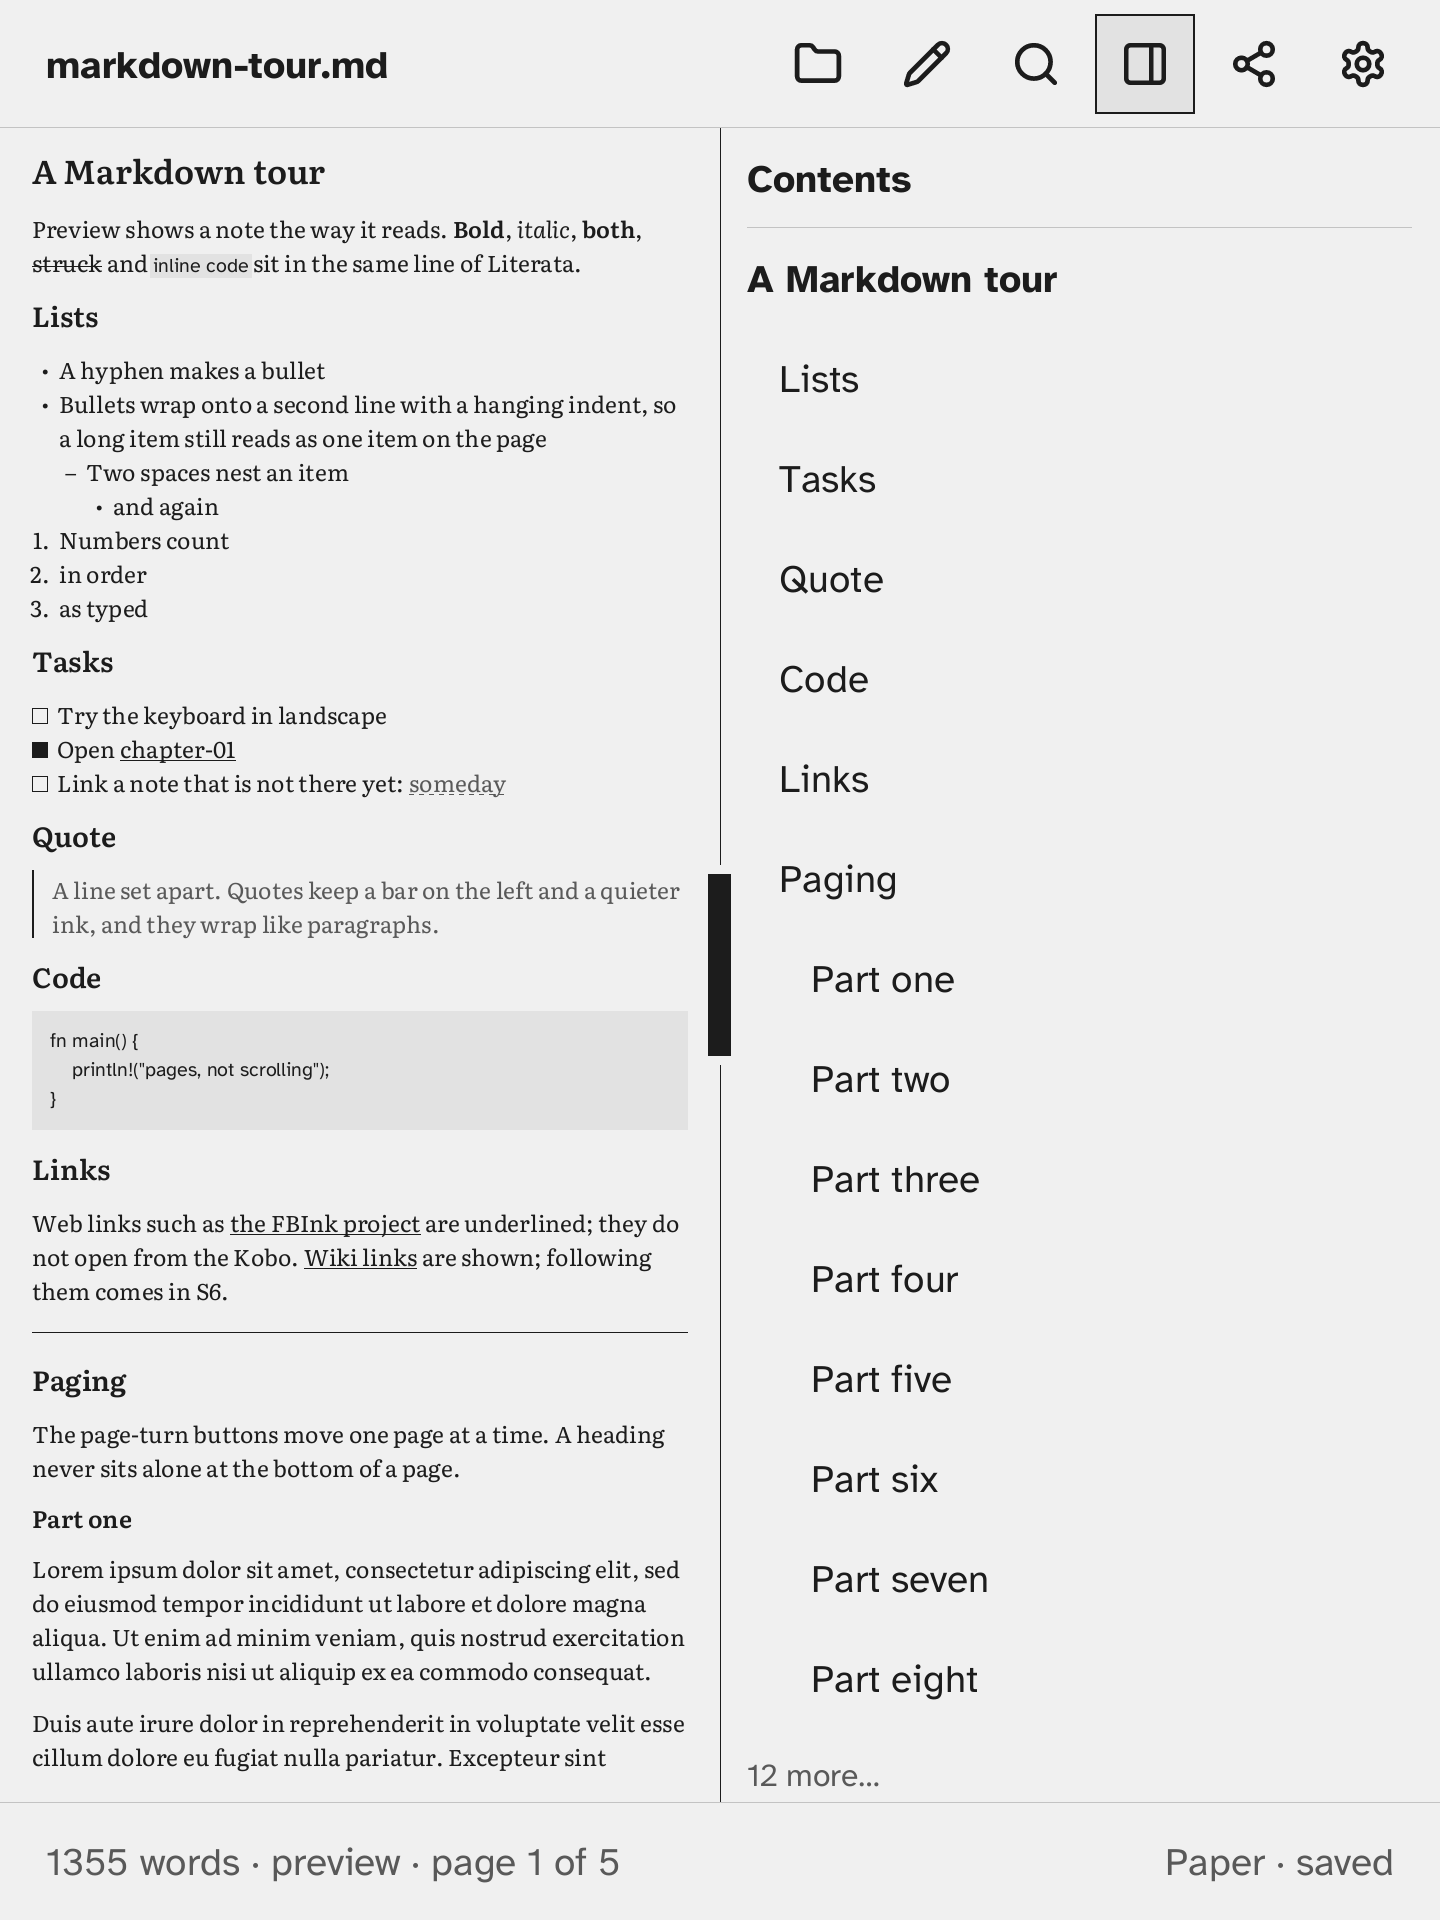
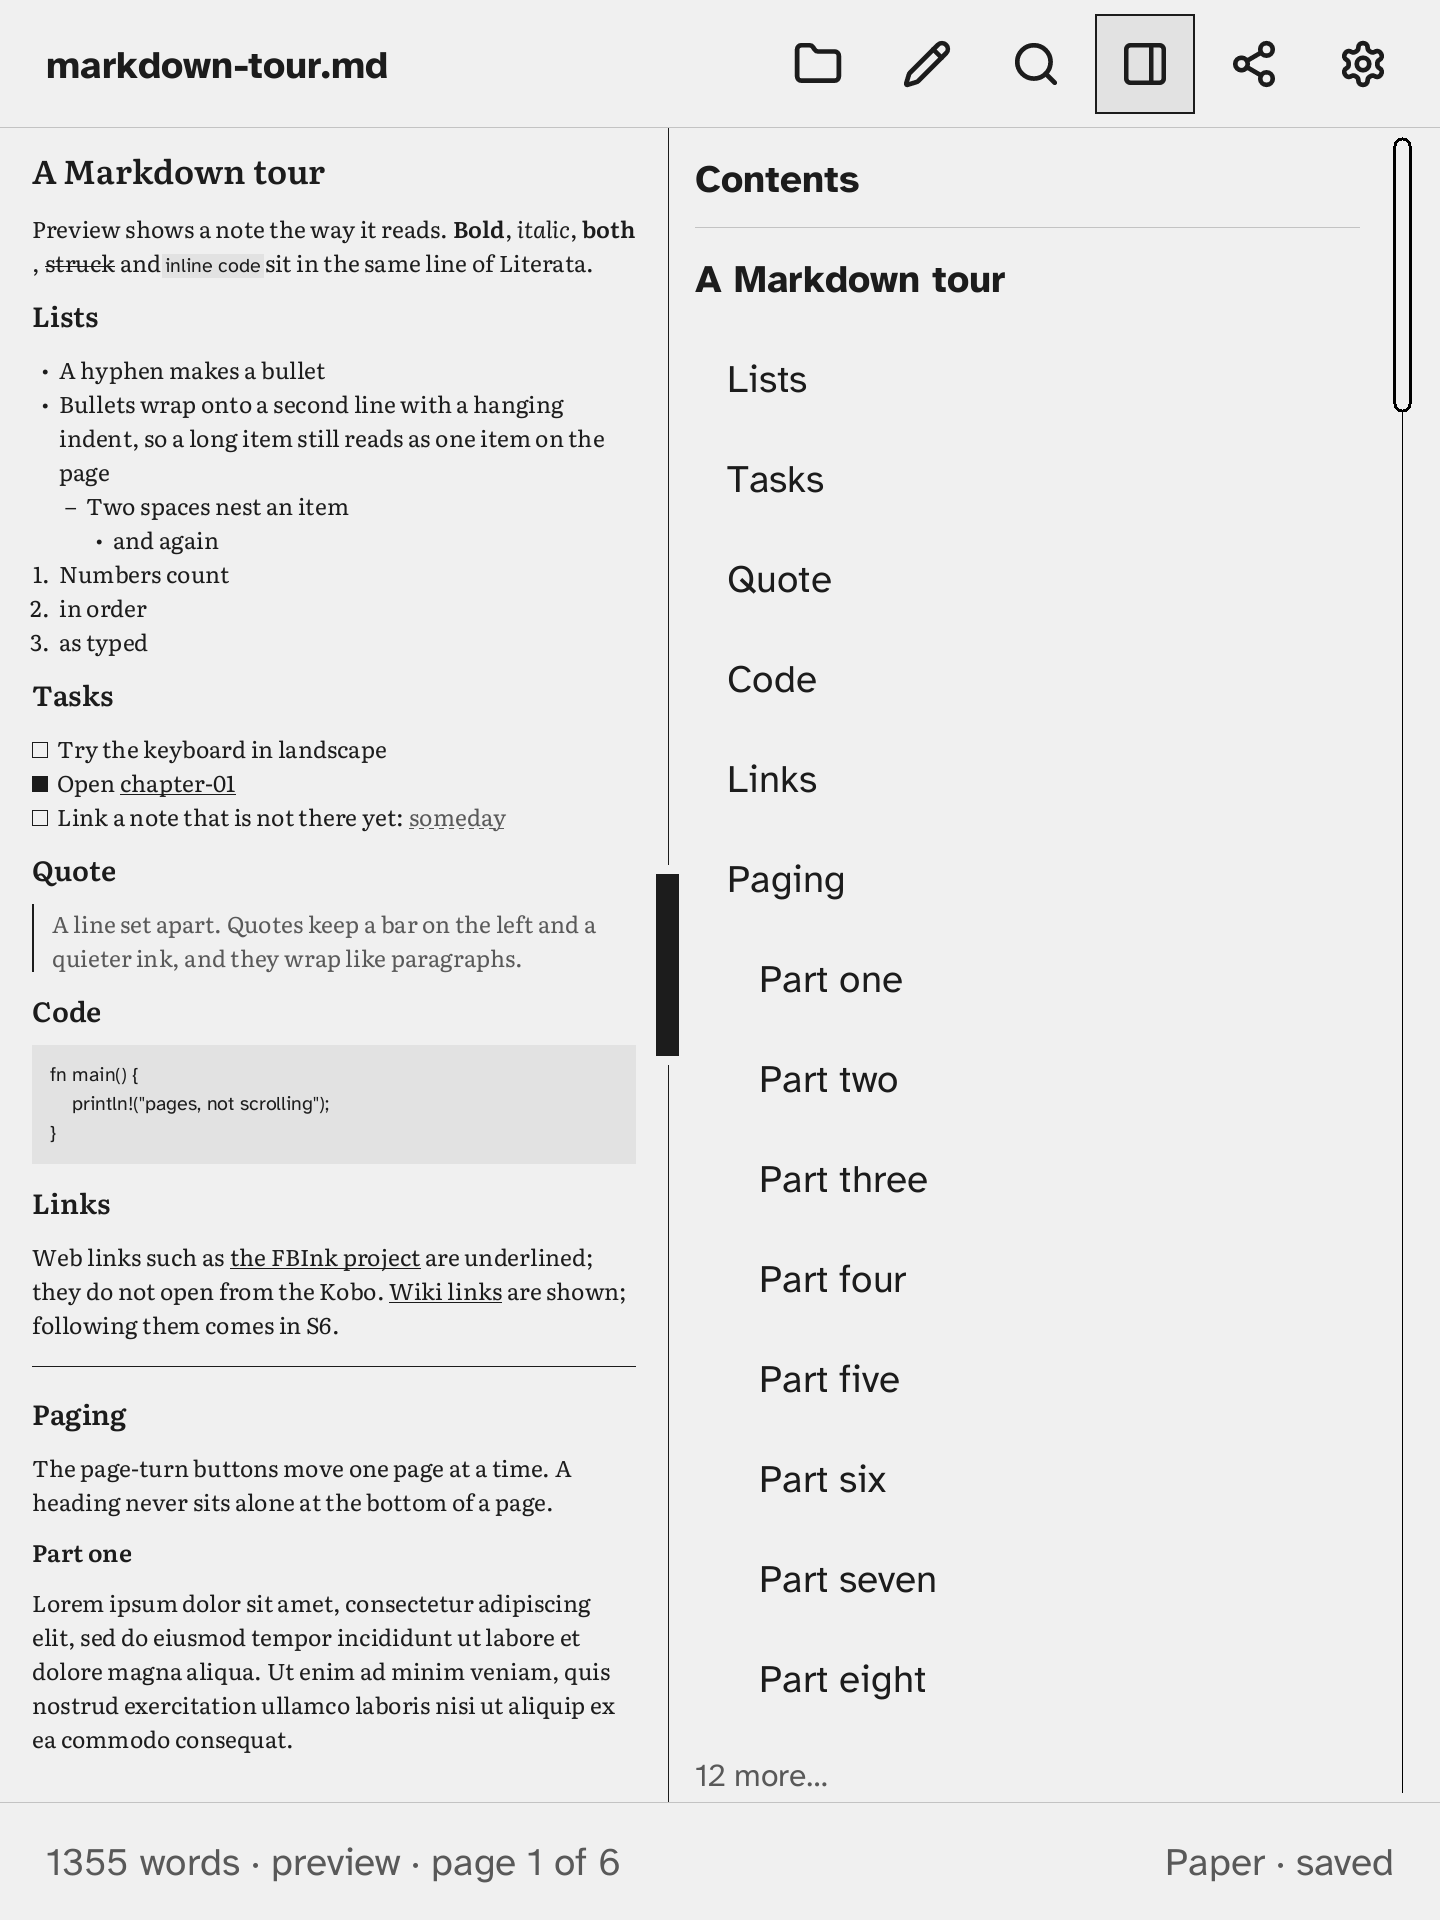
Reserve the scroll bar's strip; a right drawer ends left of it
Instead of moving the scroll bar to the drawer's edge, the bar keeps
its strip at the right of the page and a drawer on the right ends left
of it, in write mode and in preview (whose page bar the drawer also
covered). A drawer on the left never meets the bar, which is on the
right in every language.

diff --git a/crates/render/src/editor.rs b/crates/render/src/editor.rs
@@ -800,32 +800,15 @@ impl EditorScreen {
     #[must_use]
     pub fn scroll_bar_zone(&self, buffer: &Buffer, page: Rect) -> Option<(Rect, Rect)> {
         let rows = self.rows(buffer, page).len();
-        let bar = self.bar_page(page);
-        let (strip, thumb) = self.scroll_bar(bar, rows, self.visible_rows(page))?;
-        Some((crate::scrollbar::zone(self.page_s, bar, strip), thumb))
-    }
-
-    /// The part of the page the note's scroll bar runs down the right of:
-    /// the page, or with the drawer open on the right in write mode, the
-    /// page left of the drawer, so the drawer does not hide the bar (v1.16).
-    fn bar_page(&self, page: Rect) -> Rect {
-        let open = self.drawer_open.iter().any(|&o| o);
-        if !open || self.cfg.drawer != sigma_core::settings::Side::Right {
-            return page;
-        }
-        let base = Layout {
-            page,
-            ..Layout::default()
-        };
-        let d = self.drawer_rect(&base, sigma_core::settings::Side::Right);
-        Rect::new(page.x, page.y, (d.x - page.x).max(1), page.h)
+        let (strip, thumb) = self.scroll_bar(page, rows, self.visible_rows(page))?;
+        Some((crate::scrollbar::zone(self.page_s, page, strip), thumb))
     }
 
     /// Drag: the thumb's centre follows the finger at `y`.
     pub fn scroll_bar_to(&mut self, buffer: &mut Buffer, page: Rect, y: i32) {
         let rows = self.rows(buffer, page).len();
         let visible = self.visible_rows(page);
-        let Some((strip, thumb)) = self.scroll_bar(self.bar_page(page), rows, visible) else {
+        let Some((strip, thumb)) = self.scroll_bar(page, rows, visible) else {
             return;
         };
         let span = (strip.h - thumb.h).max(1) as f32;
@@ -840,7 +823,7 @@ impl EditorScreen {
     pub fn scroll_bar_step(&mut self, buffer: &mut Buffer, page: Rect, y: i32) {
         let rows = self.rows(buffer, page).len();
         let visible = self.visible_rows(page);
-        let Some((_, thumb)) = self.scroll_bar(self.bar_page(page), rows, visible) else {
+        let Some((_, thumb)) = self.scroll_bar(page, rows, visible) else {
             return;
         };
         let n = visible.saturating_sub(1).max(1);
@@ -878,7 +861,7 @@ impl EditorScreen {
     }
 
     fn draw_scroll_bar(&self, c: &mut Canvas, page: Rect, total: usize, visible: usize, t: Theme) {
-        if let Some(b) = self.scroll_bar(self.bar_page(page), total, visible) {
+        if let Some(b) = self.scroll_bar(page, total, visible) {
             // On the desk beside a locked column, else on the paper.
             crate::scrollbar::draw_bar(c, self.page_s, b, t, self.bar_bg(t));
         }
@@ -1390,7 +1373,15 @@ impl EditorScreen {
                 }
             }
         }
-        // Over the text: beside an open drawer, rows run under the bar.
+        // v1.16: a drawer on the right stops short of the bar's strip; the
+        // rows it covers would show in that strip, so it is cleared.
+        if self.drawer_open.iter().any(|&o| o)
+            && self.cfg.drawer == sigma_core::settings::Side::Right
+        {
+            let r = crate::scrollbar::reserve(self.page_s);
+            let p = l.page;
+            c.fill(Rect::new(p.x + p.w - r, p.y, r, p.h), self.bar_bg(t));
+        }
         self.draw_scroll_bar(c, l.page, rows.len(), self.visible_rows(l.page), t);
         if let Some((cands, sel)) = model.keyboard.composer.candidates() {
             self.draw_cands(c, l.page, cands, sel, t);
@@ -2818,7 +2809,7 @@ mod scroll_bar_tests {
     use super::*;
 
     #[test]
-    fn beside_an_open_drawer_on_the_right_the_bar_runs_down_its_edge() {
+    fn a_drawer_on_the_right_stops_short_of_the_bars_strip() {
         use sigma_core::settings::Side;
         let mut e = EditorScreen::new(1440, 1920);
         let b = Buffer::new("line\n".repeat(300));
@@ -2831,11 +2822,17 @@ mod scroll_bar_tests {
             ..Layout::default()
         };
         let d = e.drawer_rect(&base, Side::Right);
-        let (zone, thumb) = e.scroll_bar_zone(&b, page).unwrap();
-        assert_eq!(zone.x + zone.w, d.x, "ends where the drawer starts");
-        assert!(thumb.x + thumb.w <= d.x && thumb.x > page.x);
-        // On the left the drawer does not cover the bar: it stays put.
+        let (zone, _) = e.scroll_bar_zone(&b, page).unwrap();
+        assert_eq!(zone, alone, "the bar does not move");
+        assert_eq!(
+            d.x + d.w,
+            zone.x,
+            "the drawer ends where the bar's zone starts"
+        );
+        assert_eq!(zone.w, crate::scrollbar::reserve(e.page_s));
+        // On the left the drawer never meets the bar: flush with the page.
         e.cfg.drawer = Side::Left;
+        assert_eq!(e.drawer_rect(&base, Side::Left).x, page.x);
         assert_eq!(e.scroll_bar_zone(&b, page).unwrap().0, alone);
     }
 

diff --git a/crates/render/src/drawer.rs b/crates/render/src/drawer.rs
@@ -177,7 +177,7 @@ impl EditorScreen {
         let w = self.drawer_width_at(base, self.cfg.drawer_width);
         let x = match side {
             Side::Left => p.x,
-            Side::Right => p.x + p.w - w,
+            Side::Right => self.drawer_right(base) - w,
         };
         Rect::new(x, p.y, w, p.h)
     }
@@ -221,7 +221,7 @@ impl EditorScreen {
         let half = self.drawer_width_at(base, 0) / 2;
         match side {
             Side::Left => x < p.x + half,
-            Side::Right => x > p.x + p.w - half,
+            Side::Right => x > self.drawer_right(base) - half,
         }
     }
 
@@ -254,6 +254,14 @@ impl EditorScreen {
         c.fill(bar, t.ink);
     }
 
+    /// Where a drawer on the right ends (v1.16): left of the scroll bar's
+    /// strip, which stays the bar's (the bar is on the right in every
+    /// language; a drawer on the left never meets it).
+    fn drawer_right(&self, base: &Layout) -> i32 {
+        let p = base.page;
+        p.x + p.w - crate::scrollbar::reserve(self.page_scale())
+    }
+
     /// The Drawer width stop whose drawer is closest to one whose inner edge
     /// is at screen column `x`.
     #[must_use]
@@ -261,7 +269,7 @@ impl EditorScreen {
         let p = base.page;
         let want = match side {
             Side::Left => x - p.x,
-            Side::Right => p.x + p.w - x,
+            Side::Right => self.drawer_right(base) - x,
         };
         (0..sigma_core::settings::DRAWER_WIDTH_STOPS)
             .min_by_key(|&s| (self.drawer_width_at(base, s) - want).abs())

diff --git a/app/tests/drawer_menu.rs b/app/tests/drawer_menu.rs
@@ -207,18 +207,21 @@ fn in_preview_closing_from_the_grip_widens_the_page_and_the_tab_narrows_it_again
 }
 
 #[test]
-fn the_scroll_bar_stays_in_view_and_works_beside_the_open_drawer() {
+fn the_scroll_bar_keeps_its_strip_beside_the_open_drawer() {
     let mut r = Rig::new("bar");
     r.tap_on("Panels");
     r.tap_on("Contents");
     r.tap_on("Panels");
     let page = r.app.page_rect();
     let grip = r.at("DrawerHandle");
-    let edge = page.x + page.w - r.app.drawer_width_px();
-    // Just left of the drawer, well below the grip: the bar's lower half.
-    let (x, y) = (edge - 10, (grip.1 + page.y + page.h) / 2 + 100);
+    // At the screen edge, right of the drawer, below the thumb.
+    let (x, y) = (page.x + page.w - 10, (grip.1 + page.y + page.h) / 2 + 100);
     assert_eq!(r.app.screen.scroll, 0);
     r.send(Event::Tap { x, y });
     assert!(r.app.screen.scroll > 0, "a tap below the thumb pages down");
     assert!(r.app.drawer_visible(), "the drawer stays open");
+    assert!(
+        page.x + page.w - r.app.drawer_width_px() > grip.0,
+        "the drawer ends short of the screen edge"
+    );
 }

diff --git a/crates/render/src/scrollbar.rs b/crates/render/src/scrollbar.rs
@@ -93,6 +93,13 @@ pub fn bar(
     Some((strip, thumb(strip, total, visible, at, m.min_thumb)))
 }
 
+/// The width the bar's touch zone takes at the right of a page (v1.16): a
+/// drawer on the right stays left of it, so it never covers the bar.
+#[must_use]
+pub fn reserve(s: crate::theme::Scale) -> i32 {
+    Metrics::new(s).clearance() + s.px(4.0)
+}
+
 /// Where a finger grabs a bar: the strip widened to a touch target, out to
 /// the page's right edge, the whole height of `page`. Shared by every screen
 /// that lets the bar be dragged or tapped.

diff --git a/CHANGELOG.md b/CHANGELOG.md
@@ -4,7 +4,7 @@ All notable changes to Σscribe. Versions are tagged after they pass on the Kobo
 
 ## Unreleased
 
-- **Close the drawer from its grip, reopen it from the edge.** A double tap on the drawer's grip (or a double click with a mouse or touchpad), or dragging the grip to the screen edge, closes the whole drawer. A tab stays at the screen edge on the drawer's side; tap it to bring back the same panes (and the scratch focus), or drag it in to reopen at the width where the finger lifts. Ticking a pane in the drawer menu forgets what the grip closed. The tab sits over that bit of the scroll bar; the rest of the bar works as before. What the grip closed is not kept across a restart. The note's scroll bar no longer disappears under a drawer open on the right: it runs down the drawer's edge (drawn over the text) and works there; the grip keeps its stretch of it. Emulator control `DrawerTab`. Tests in `app/tests/drawer_handle.rs`, `app/tests/drawer_menu.rs`, `app/tests/pointer.rs`.
+- **Close the drawer from its grip, reopen it from the edge.** A double tap on the drawer's grip (or a double click with a mouse or touchpad), or dragging the grip to the screen edge, closes the whole drawer. A tab stays at the screen edge on the drawer's side; tap it to bring back the same panes (and the scratch focus), or drag it in to reopen at the width where the finger lifts. Ticking a pane in the drawer menu forgets what the grip closed. The tab sits over that bit of the scroll bar; the rest of the bar works as before. What the grip closed is not kept across a restart. The scroll bar keeps its strip at the right of the page: a drawer on the right now ends left of it instead of covering it, in write mode and in preview (a drawer on the left never met it; the bar is on the right in every language). Emulator control `DrawerTab`. Tests in `app/tests/drawer_handle.rs`, `app/tests/drawer_menu.rs`, `app/tests/pointer.rs`.
 
 - **One drawer button instead of three icons.** The title bar has a single drawer button (a panel on the drawer's side) where the Contents, To-dos and Scratch icons were. A tap opens a small menu under it with a checkbox, icon and name for each pane; tap rows to show or hide panes, the menu stays open for several. The button, Escape or a tap anywhere else closes it, and that tap does nothing else (no typing, no caret move). The button is shaded while a pane or the menu is open. Only panes whose plugin is on are listed; with none, the button goes. Works in write mode and preview. No new strings (the pane names were translated). New `sigma_render::drawer_menu` (`MenuHit`, `drawer_menu_rows`, `draw_drawer_menu`), `Hit::DrawerMenu` replaces `Hit::Drawer`, Lucide `panel-right` and `panel-left`; emulator control `Panels` and step `pane NAME`; `App::control_steps`. Tests: `crates/render/src/drawer_menu.rs`, `app/tests/drawer_menu.rs`.
 
